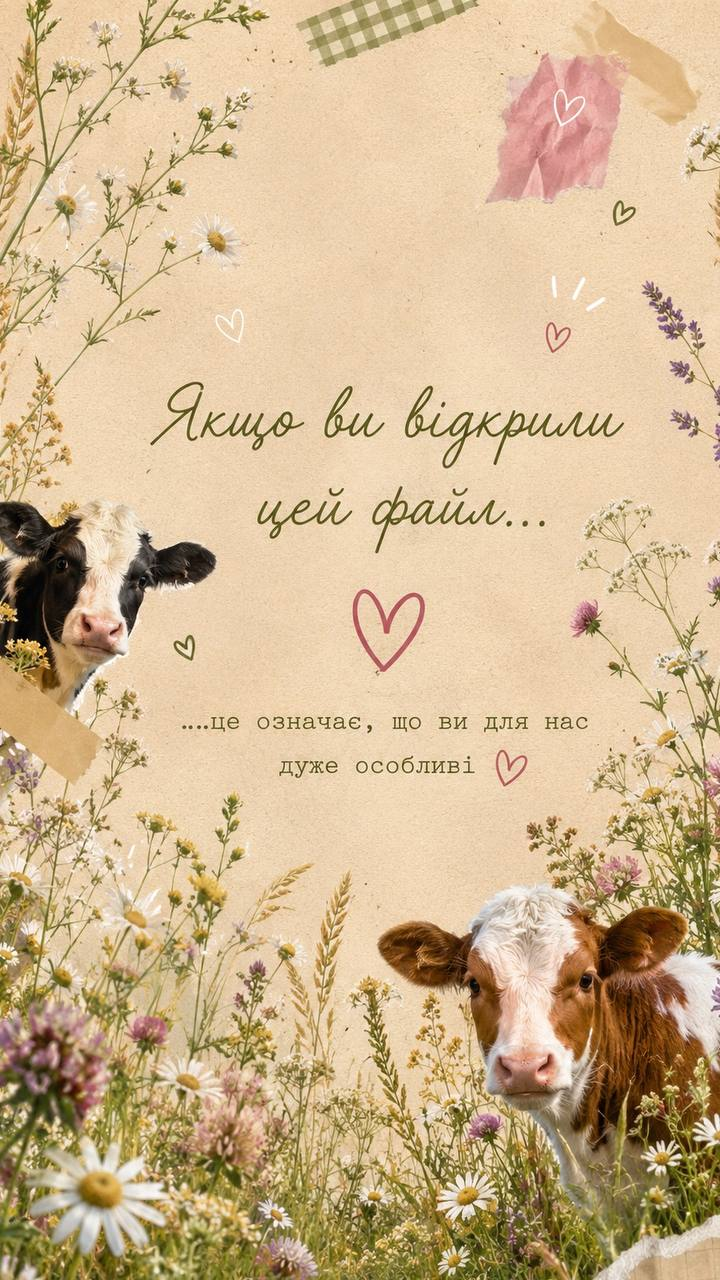
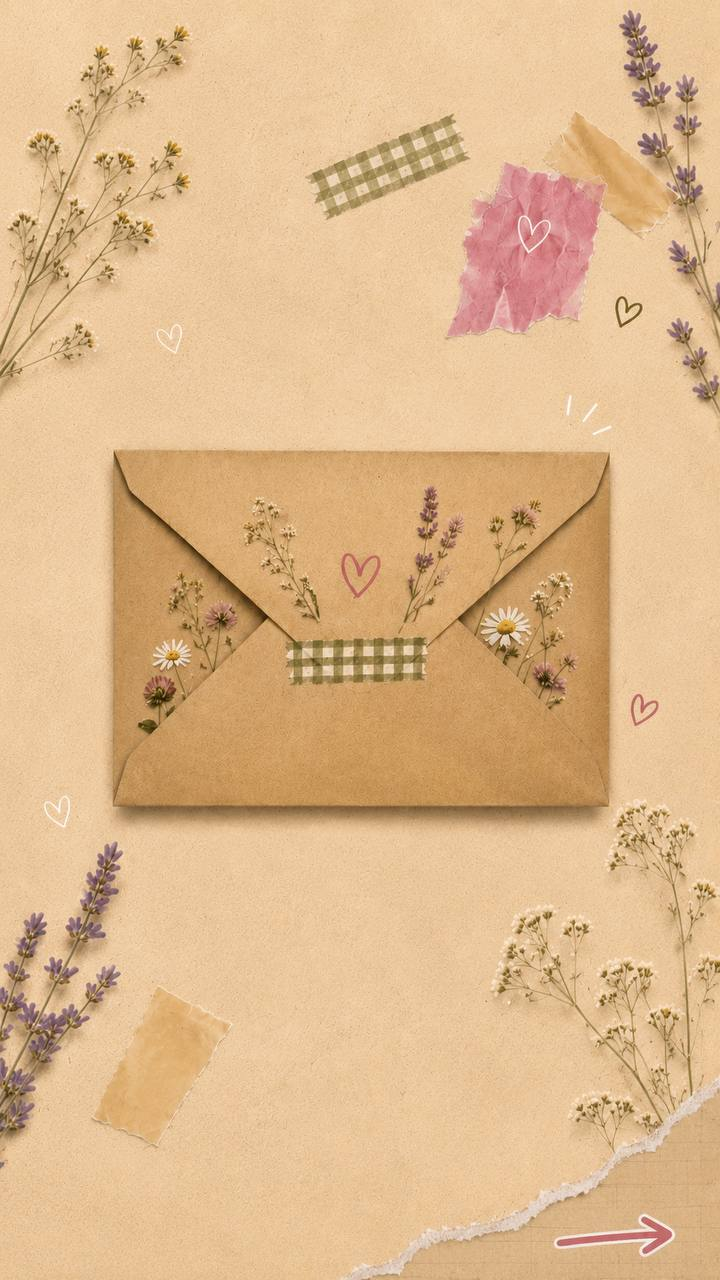
Add files via upload

diff --git a/script.js b/script.js
@@ -1,15 +1,13 @@
-const swiper = new Swiper(".swiper", {
-    effect: "cards",
-    grabCursor: true,
+new Swiper(".swiper", {
+    effect: "fade",
+    speed: 1200,
 
-    loop: false,
-
-    speed: 700,
+    fadeEffect: {
+        crossFade: true,
+    },
 
     pagination: {
         el: ".swiper-pagination",
         clickable: true,
     },
-
-    allowTouchMove: true,
 });

diff --git a/style.css b/style.css
@@ -22,16 +22,21 @@ body{
     display:flex;
     justify-content:center;
     align-items:center;
-    background:#f1ecec;
+    background:#d1bc4473;
+}
+.swiper-slide:last-child {
+    background: #e7dccc;
 }
 
 .swiper-slide img{
     width:100%;
     height:100%;
-    object-fit:contain;
-    user-select:none;
-    -webkit-user-drag:none;
+    object-fit:cover;
+
+    transform:scale(1);
+    transition:transform 8s ease;
 }
+
 
 .swiper-pagination-bullet{
     background:white;

diff --git a/index.html b/index.html
@@ -32,6 +32,14 @@
             <img src="images/3.jpg" alt="">
         </div>
 
+           <div class="swiper-slide">
+            <img src="images/4.jpg" alt="">
+        </div>
+
+           <div class="swiper-slide">
+            <img src="images/5.jpg" alt="">
+        </div>
+
     </div>
 
     <div class="swiper-pagination"></div>